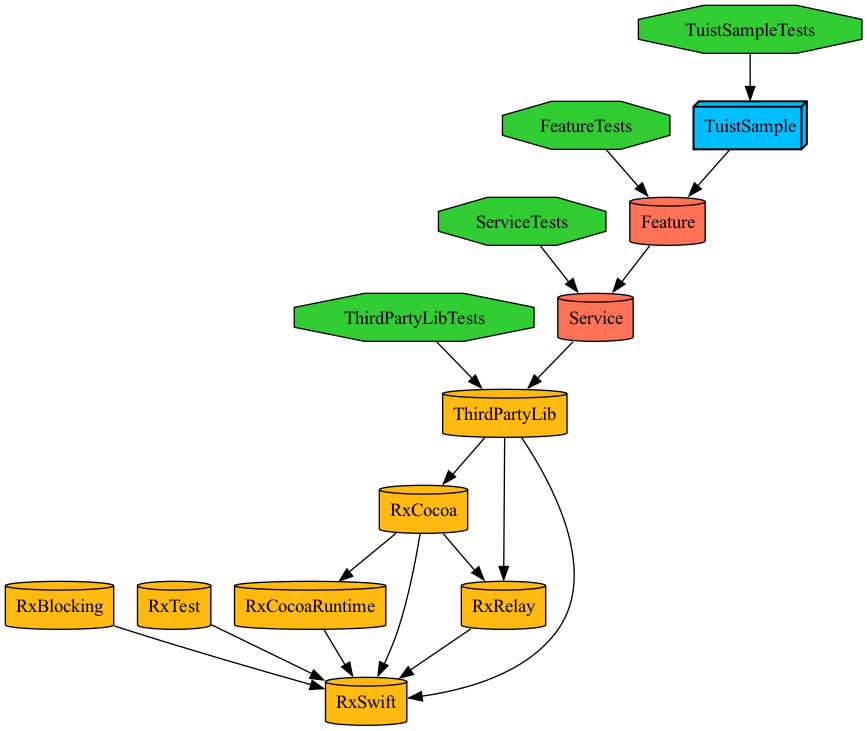
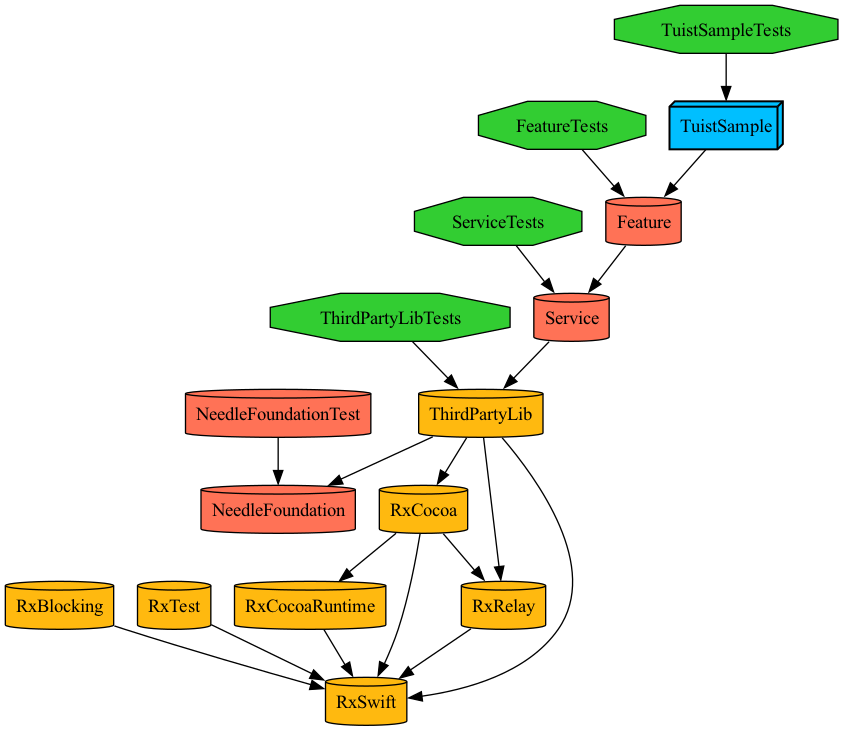
:tada:: 니들 제너레이트 성공

diff --git a/Tuist/ProjectDescriptionHelpers/Project+Templates.swift b/Tuist/ProjectDescriptionHelpers/Project+Templates.swift
@@ -11,7 +11,8 @@ public extension Project {
         dependencies: [TargetDependency] = [], // Target의 의존성에 대한 것입니다. 라이브러리나 다른 모듈을 의존성으로 넣을 때 씁니다.
         sources: SourceFilesList = ["Sources/**"], //소스 코드의 경로
         resources: ResourceFileElements? = nil, // 리소스들이 어디에 있는지에 대한 경로입니다
-        infoPlist: InfoPlist = .default // Info.plist를 정의합니다. 기본으로 제공되는 것을 쓸 수도 있고 key 값에 따라 value를 넣어주면 커스텀으로 추가적으로 값을 넣어줄 수 있습니다. 또는 미리 Info.plist를 넣어놓고 경로를 줄 수도 있습니다.
+        infoPlist: InfoPlist = .default, // Info.plist를 정의합니다. 기본으로 제공되는 것을 쓸 수도 있고 key 값에 따라 value를 넣어주면 커스텀으로 추가적으로 값을 넣어줄 수 있습니다. 또는 미리 Info.plist를 넣어놓고 경로를 줄 수도 있습니다.
+        scripts: [TargetScript] = [.SwiftLintShell]
     ) -> Project {
         let settings: Settings = .settings(
             base: [:],
@@ -30,7 +31,7 @@ public extension Project {
             infoPlist: infoPlist,
             sources: sources,
             resources: resources,
-            scripts: [.SwiftLintShell],
+            scripts: scripts,
             dependencies: dependencies
         )
 

diff --git a/Projects/App/Sources/Application/NeedleGenerated.swift b/Projects/App/Sources/Application/NeedleGenerated.swift
@@ -1,0 +1,50 @@
+
+
+import Foundation
+import NeedleFoundation
+
+// swiftlint:disable unused_declaration
+private let needleDependenciesHash : String? = nil
+
+// MARK: - Traversal Helpers
+
+private func parent1(_ component: NeedleFoundation.Scope) -> NeedleFoundation.Scope {
+    return component.parent
+}
+
+// MARK: - Providers
+
+#if !NEEDLE_DYNAMIC
+
+
+#else
+extension AppComponent: Registration {
+    public func registerItems() {
+
+    }
+}
+
+
+#endif
+
+private func factoryEmptyDependencyProvider(_ component: NeedleFoundation.Scope) -> AnyObject {
+    return EmptyDependencyProvider(component: component)
+}
+
+// MARK: - Registration
+private func registerProviderFactory(_ componentPath: String, _ factory: @escaping (NeedleFoundation.Scope) -> AnyObject) {
+    __DependencyProviderRegistry.instance.registerDependencyProviderFactory(for: componentPath, factory)
+}
+
+#if !NEEDLE_DYNAMIC
+
+@inline(never) private func register1() {
+    registerProviderFactory("^->AppComponent", factoryEmptyDependencyProvider)
+}
+#endif
+
+public func registerProviderFactories() {
+#if !NEEDLE_DYNAMIC
+    register1()
+#endif
+}

diff --git a/Projects/App/Project.swift b/Projects/App/Project.swift
@@ -9,6 +9,7 @@ let project = Project.makeModule(
         .Projcet.Feature
     ],
     resources: ["Resources/**"],
-    infoPlist: .file(path: "Support/Info.plist") // info.plist는 자동완성 되지 않기 때문에 미리 생성한 후 해당 경로를 넣어줌
+    infoPlist: .file(path: "Support/Info.plist"), // info.plist는 자동완성 되지 않기 때문에 미리 생성한 후 해당 경로를 넣어줌
+    scripts: [.NeedleRunScript,.SwiftLintShell]
 )
 

diff --git a/Plugins/HampPlugin/ProjectDescriptionHelpers/Dependency+SPM.swift b/Plugins/HampPlugin/ProjectDescriptionHelpers/Dependency+SPM.swift
@@ -29,4 +29,5 @@ public extension TargetDependency.SPM {
     static let RxSwift = TargetDependency.external(name: "RxSwift")
     static let RxCocoa = TargetDependency.external(name: "RxCocoa")
     static let RxRelay = TargetDependency.external(name: "RxRelay")
+    static let Needle = TargetDependency.external(name: "NeedleFoundation")
 }

diff --git a/Tuist/Dependencies.swift b/Tuist/Dependencies.swift
@@ -18,9 +18,8 @@ let dependencies = Dependencies(
     ],
     baseSettings: .settings(
         configurations: [
-            .debug(name: .dev),
-            .debug(name: .stage),
-            .release(name: .prod)
+            .debug(name: .debug),
+            .debug(name: .release)
         ]
     )),
     

diff --git a/Projects/App/Sources/Application/AppDelegate.swift b/Projects/App/Sources/Application/AppDelegate.swift
@@ -7,6 +7,9 @@ class AppDelegate: UIResponder, UIApplicationDelegate {
         _ application: UIApplication,
         didFinishLaunchingWithOptions launchOptions: [UIApplication.LaunchOptionsKey: Any]?
     ) -> Bool {
+        
+        registerProviderFactories()
+        
         return true
     }
 

diff --git a/Projects/App/Sources/Application/AppComponent.swift b/Projects/App/Sources/Application/AppComponent.swift
@@ -1,0 +1,15 @@
+//
+//  AppComponent.swift
+//  TuistSample
+//
+//  Created by yongbeomkwak on 2023/08/13.
+//  Copyright © 2023 Hamp. All rights reserved.
+//
+
+import Foundation
+import NeedleFoundation
+
+public final class AppComponent: BootstrapComponent {
+    
+    
+}

diff --git a/Tuist/ProjectDescriptionHelpers/Scripts.swift b/Tuist/ProjectDescriptionHelpers/Scripts.swift
@@ -19,4 +19,6 @@ fi
         path: .relativeToRoot("Scripts/SwiftLintRunScript.sh"),
         name: "SwiftLintShell"
     )
+    
+    static let NeedleRunScript = TargetScript.pre(path: .relativeToRoot("Scripts/NeedleRunScript.sh"),name: "NeedleRunScript")
 }

diff --git a/Projects/ThirdPartyLib/Project.swift b/Projects/ThirdPartyLib/Project.swift
@@ -9,6 +9,7 @@ let project = Project.makeModule(
     dependencies: [
         .SPM.RxSwift,
         .SPM.RxCocoa,
-        .SPM.RxRelay
+        .SPM.RxRelay,
+        .SPM.Needle
     ]
 )
